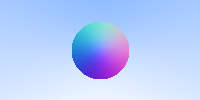
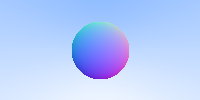
Debugging hit_sphere func

Changed region(s): [[0.36, 0.27, 0.63, 0.75]]

diff --git a/src/main.rs b/src/main.rs
@@ -18,16 +18,9 @@ use cgmath::{
 const IMG_WIDTH: usize = 200;
 const IMG_HEIGHT: usize = 100;
 
-//
 fn write_image(filename: &String, data: &[u8], width: u32, height: u32) -> io::Result<()> {
     let mut file = File::create(filename).unwrap();
     let enc = PNGEncoder::new(file);
-    /*let mut data: [u8; 3 * IMG_SIZE * IMG_SIZE]  = [0; 3 * IMG_SIZE * IMG_SIZE];
-    let mut rng = rand::thread_rng();
-    for i in 0..(3 * IMG_SIZE * IMG_SIZE) {
-        let n1: u8 = rng.gen();
-        data[i] = n1;
-    }*/
     enc.encode(
         &data,
         width,
@@ -96,8 +89,9 @@ fn gradient_color(r: &Ray) -> Vector3<f32> {
     return (1.0-t) * Vector3::new(1.0, 1.0, 1.0) + t * Vector3::new(0.5, 0.7, 1.0);
 }
 
-fn trace(r: &Ray) -> Vector3<f32> {
-    let sphere_center = Vector3::new(0.0, 0.0, 1.0);
+fn trace(r: &Ray, x: usize, y: usize, u: f32, v: f32) -> Vector3<f32> {
+
+    let sphere_center = Vector3::new(0.0, 0.0, -1.0);
     let (is_hit, surface_norm_t) = hit_sphere(
         sphere_center,
         0.5,
@@ -108,12 +102,15 @@ fn trace(r: &Ray) -> Vector3<f32> {
             //&(r.point(surface_norm_t) - Vector3::new(0.0, 0.0, -1.0))
             &(r.point(surface_norm_t) - sphere_center)
         );
-        println!("xyz = ({}, {}, {})", n.x, n.y, -1.0*n.z);
+        //println!("t = {}", surface_norm_t)
+        println!("\n\nFor Ray ======> {:?} {:?}", r.A, r.B);
+        println!("uv = {} {}", u, v);
+        println!("XY => {} {}", x, y);
+        println!("xyz = ({}, {}, {})", n.x, n.y, n.z);
         return 0.5 * Vector3::new(
             n.x+1.0,
             n.y+1.0,
             n.z+1.0
-            //-1.0*n.z+1.0
         );
         //return Vector3::new(1.0, 0.0, 0.0)
     }
@@ -124,13 +121,25 @@ fn hit_sphere(center: Vector3<f32>, radius: f32, ray: &Ray) -> (bool, f32) {
     let oc = ray.origin() - center;
     let a = ray.direction().dot(*ray.direction());
     let b = 2.0 * oc.dot(*ray.direction());
-    let c = oc.dot(oc) - (radius*radius);
-    let d = (b*b) - (4.0*a*c);
+    let c = oc.dot(oc) - radius*radius;
+    let d = b*b - 4.0*a*c;
+
+    if d > 0.0 {
+        println!("--- Hit Dump ---");
+        println!("ray = {:?} {:?}", ray.A, ray.B);
+        println!("oc = {:?}", oc);
+        println!("a = {}", a);
+        println!("b = {}", b);
+        println!("c = {}", c);
+        println!("d = {}", d);
+    }
+
     (
         d > 0.0,
-        (-1.0 * b) - (d.sqrt() / (2.0*a))
+        (-1.0 * b - d.sqrt()) / (2.0 * a) 
     )
 }
+
 
 fn main() {
     println!("Time for some raytracing!");
@@ -148,8 +157,8 @@ fn main() {
     }*/
 
     // note: unlike in the book, i'm orienting my camera in the positive z
-    // direction, i'm not sure why but this seems to give better results.
-    let lower_left = Vector3::new(-2.0, -1.0, 1.0);
+    // direction, i'm not sure why but this seems to give better results
+    let lower_left = Vector3::new(-2.0, -1.0, -1.0);
     let horizontal = Vector3::new(4.0, 0.0, 0.0);
     let vertical = Vector3::new(0.0, 2.0, 0.0);
     let origin = Vector3::new(0.0, 0.0, 0.0);
@@ -157,14 +166,16 @@ fn main() {
         for x in (0..IMG_WIDTH) {
             let index = (y * IMG_WIDTH + x) * 3;
             let u: f32 = x as f32 / IMG_WIDTH as f32;
-            let v: f32 = (IMG_HEIGHT as f32 - y as f32) / IMG_HEIGHT as f32;
+            let v: f32 = ((IMG_HEIGHT - y) as f32) / IMG_HEIGHT as f32;
             //let v: f32 = y as f32 / IMG_HEIGHT as f32;
+            
+            //println!("offset = {:?}", ((u * horizontal) + (v * vertical)));
             let r = Ray::new(
                 origin,
-                lower_left + u * horizontal + v * vertical
+                unit_vector(&(lower_left + ((u * horizontal) + (v * vertical))))
             );
 
-            let color = trace(&r);
+            let color = trace(&r, x, IMG_HEIGHT - y, u, v);
             data[index] = (color.x * 255.99) as u8;
             data[index+1] = (color.y * 255.99) as u8;
             data[index+2] = (color.z * 255.99) as u8;
